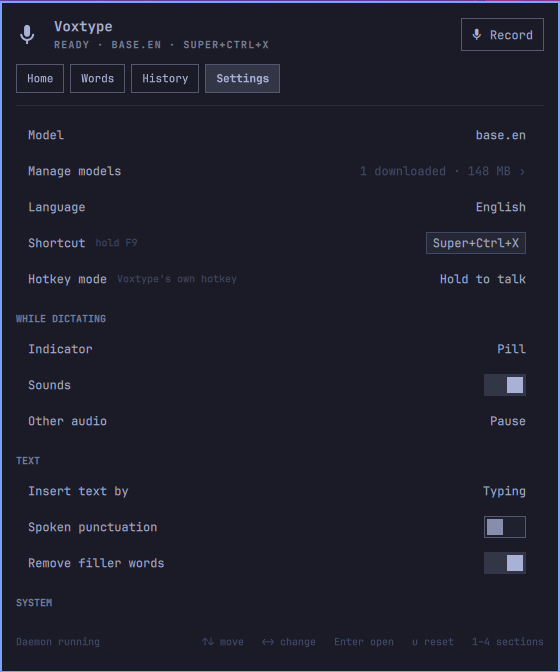
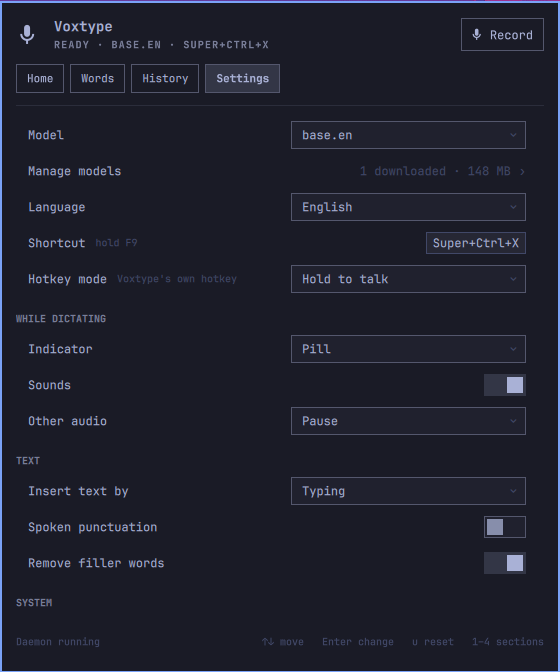
Panel: a key choice in a confirmation is never reverted; README Settings screenshot
The hover guard reverted every selection in the first 600 ms, so a fast Right then Enter cancelled. Changes made by a key now pass through. The README's Settings screenshot shows the dropdown rows.

diff --git a/tests/panel_lifecycle.test.js b/tests/panel_lifecycle.test.js
@@ -1501,7 +1501,28 @@ test('a confirmation opening under the pointer keeps Cancel selected; a later ho
   assert.equal(h.root.hoverHijack(t0 + 104), true, 'the dialog appeared under the pointer (measured 104 ms): not a choice');
   assert.equal(h.root.hoverHijack(t0 + 2000), false, 'a later hover is a real choice');
   const c = panel.slice(panel.indexOf('target: confirmation'));
-  assert.match(c, /function onSelectedIndexChanged\(\) \{[\s\S]*root\.hoverHijack\(Date\.now\(\)\)\)\s*confirmation\.selectedIndex = 0;/);
+  assert.match(c, /function onSelectedIndexChanged\(\) \{[\s\S]*!root\.confirmKeyChoice && root\.hoverHijack\(Date\.now\(\)\)\)\s*confirmation\.selectedIndex = 0;/);
+});
+
+test('a fast Right then Enter in a confirmation still confirms: key choices are never reverted', () => {
+  const h = panelHarness();
+  const seen = [];
+  const src = panel.slice(panel.indexOf('function onSelectedIndexChanged()'));
+  const revert = vm.runInContext('(' + functionSource(src, 0) + ')', vm.createContext(h.root));
+  // The kit dialog's handleKey, as shipped: Right toggles the selection, Enter acts on it.
+  h.root.confirmation.handleKey = function(event) {
+    if (event.key === 'Right') { this.selectedIndex = this.selectedIndex === 0 ? 1 : 0; revert(); }
+    else if (event.key === 'Enter') seen.push(this.selectedIndex === 0 ? 'canceled' : 'confirmed');
+  };
+  h.root.ask('history.clear', {}, 'Delete all?', 'Delete all');
+  h.root.handleKey({key: 'Right', modifiers: 0, accepted: false});
+  assert.equal(h.root.confirmation.selectedIndex, 1, 'not reverted, right after opening');
+  h.root.handleKey({key: 'Enter', modifiers: 0, accepted: false});
+  assert.deepEqual(seen, ['confirmed']);
+  assert.equal(h.root.confirmKeyChoice, false);
+  // A hover selection at the same moment is still reverted.
+  h.root.confirmation.selectedIndex = 1; revert();
+  assert.equal(h.root.confirmation.selectedIndex, 0);
 });
 
 test('expanded History renders the whole sanitized transcript, Learn everywhere lists every planned file', () => {

diff --git a/Panel.qml b/Panel.qml
@@ -113,8 +113,10 @@ Panel {
     signal openChoice(string key)
     // The last cursor move came from hovering (see hoverCursor).
     property bool cursorFromPointer: false
-    // When the last confirmation opened (see hoverHijack).
+    // When the last confirmation opened (see hoverHijack), and whether the
+    // dialog's selection is being changed by a key right now.
     property real confirmOpenedAt: 0
+    property bool confirmKeyChoice: false
 
     readonly property var vocabulary: snapshot.vocabulary || []
     readonly property var replacements: snapshot.replacements || []
@@ -1087,7 +1089,10 @@ Panel {
     function handleKey(event) {
         cursorFromPointer = false;
         if (confirmation.opened) {
+            // A key choice is deliberate, however fast: hoverHijack leaves it.
+            confirmKeyChoice = true;
             confirmation.handleKey(event);
+            confirmKeyChoice = false;
             event.accepted = true;
             return;
         }
@@ -1396,7 +1401,7 @@ Panel {
             Connections {
                 target: confirmation
                 function onSelectedIndexChanged() {
-                    if (confirmation.opened && confirmation.selectedIndex !== 0 && root.hoverHijack(Date.now()))
+                    if (confirmation.opened && confirmation.selectedIndex !== 0 && !root.confirmKeyChoice && root.hoverHijack(Date.now()))
                         confirmation.selectedIndex = 0;
                 }
             }
